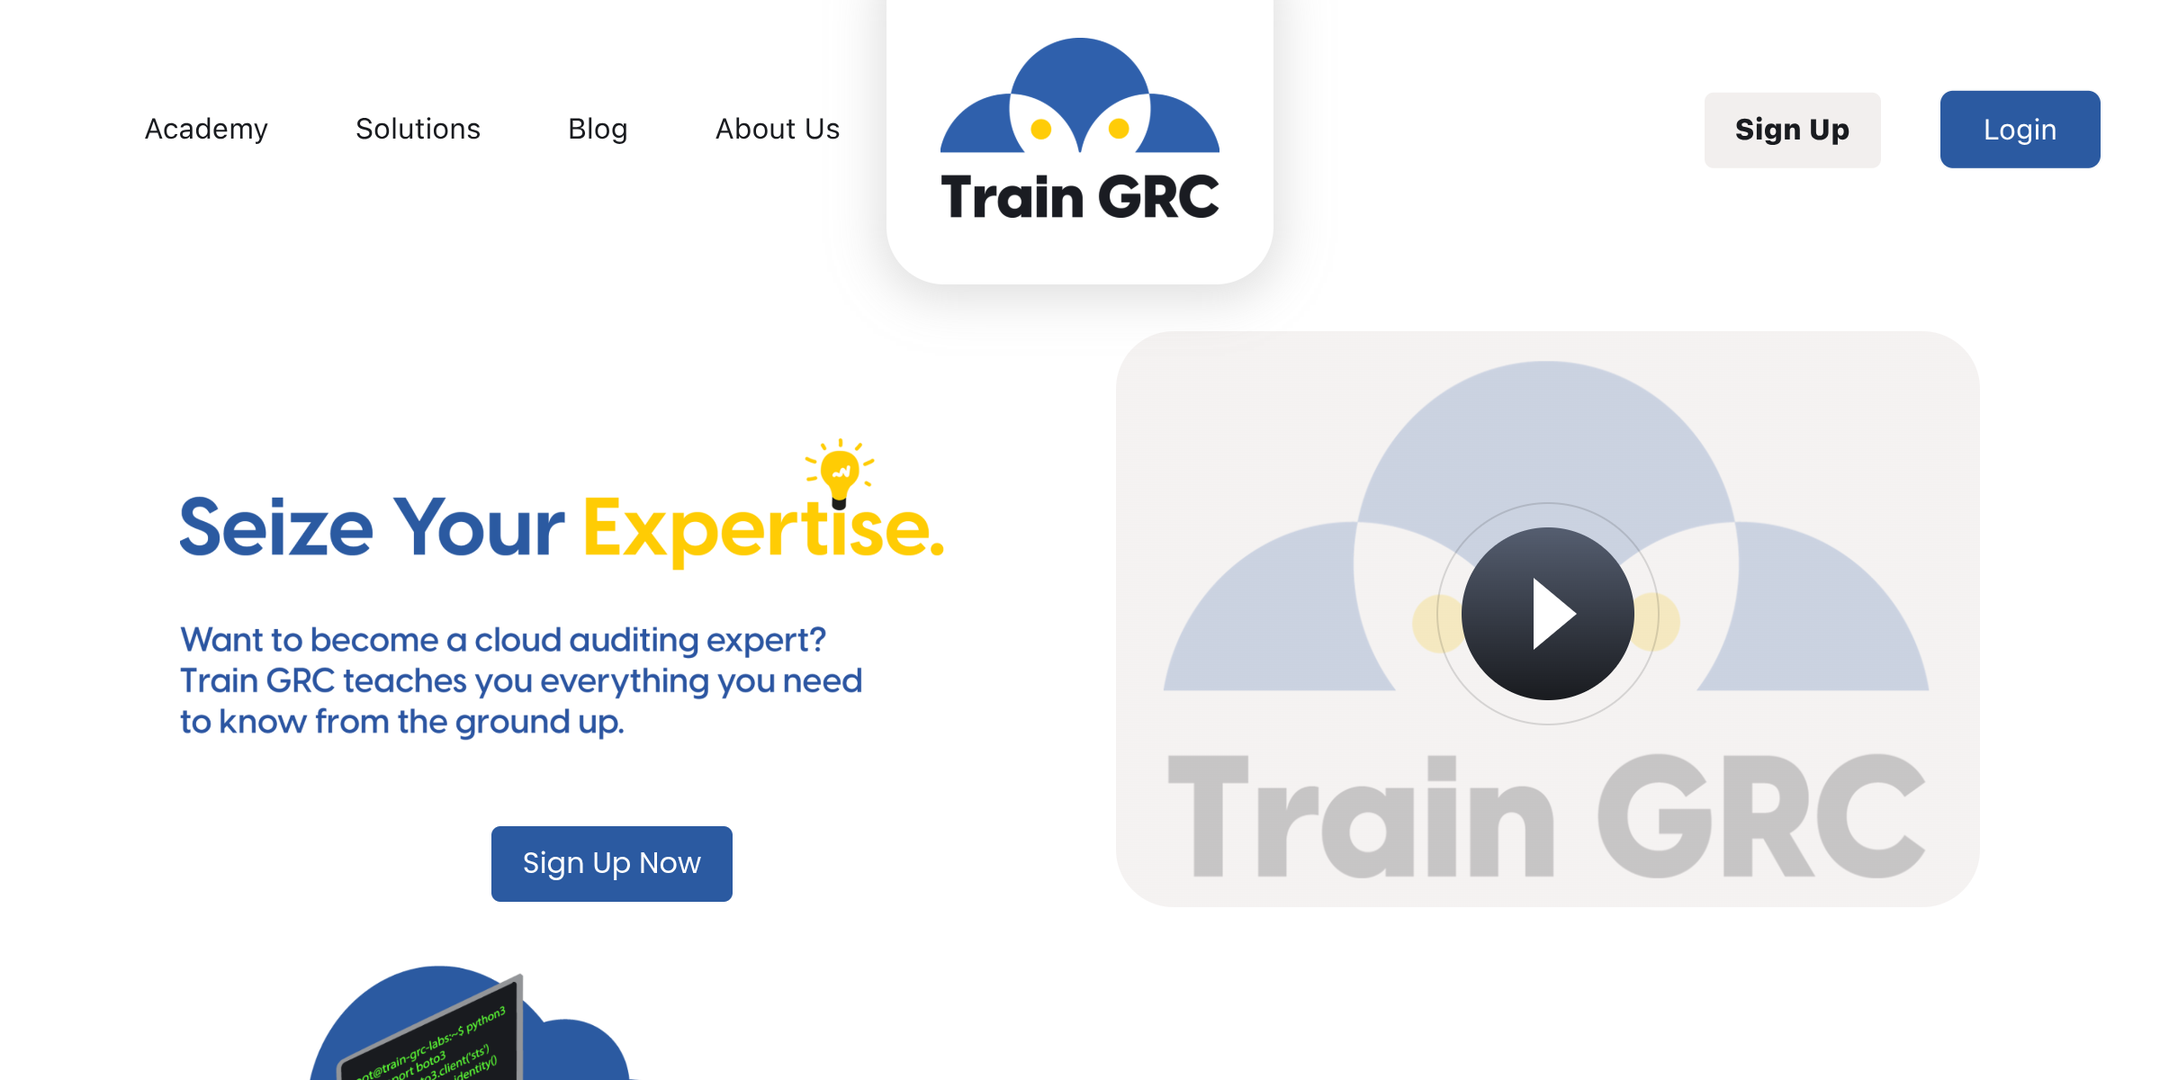
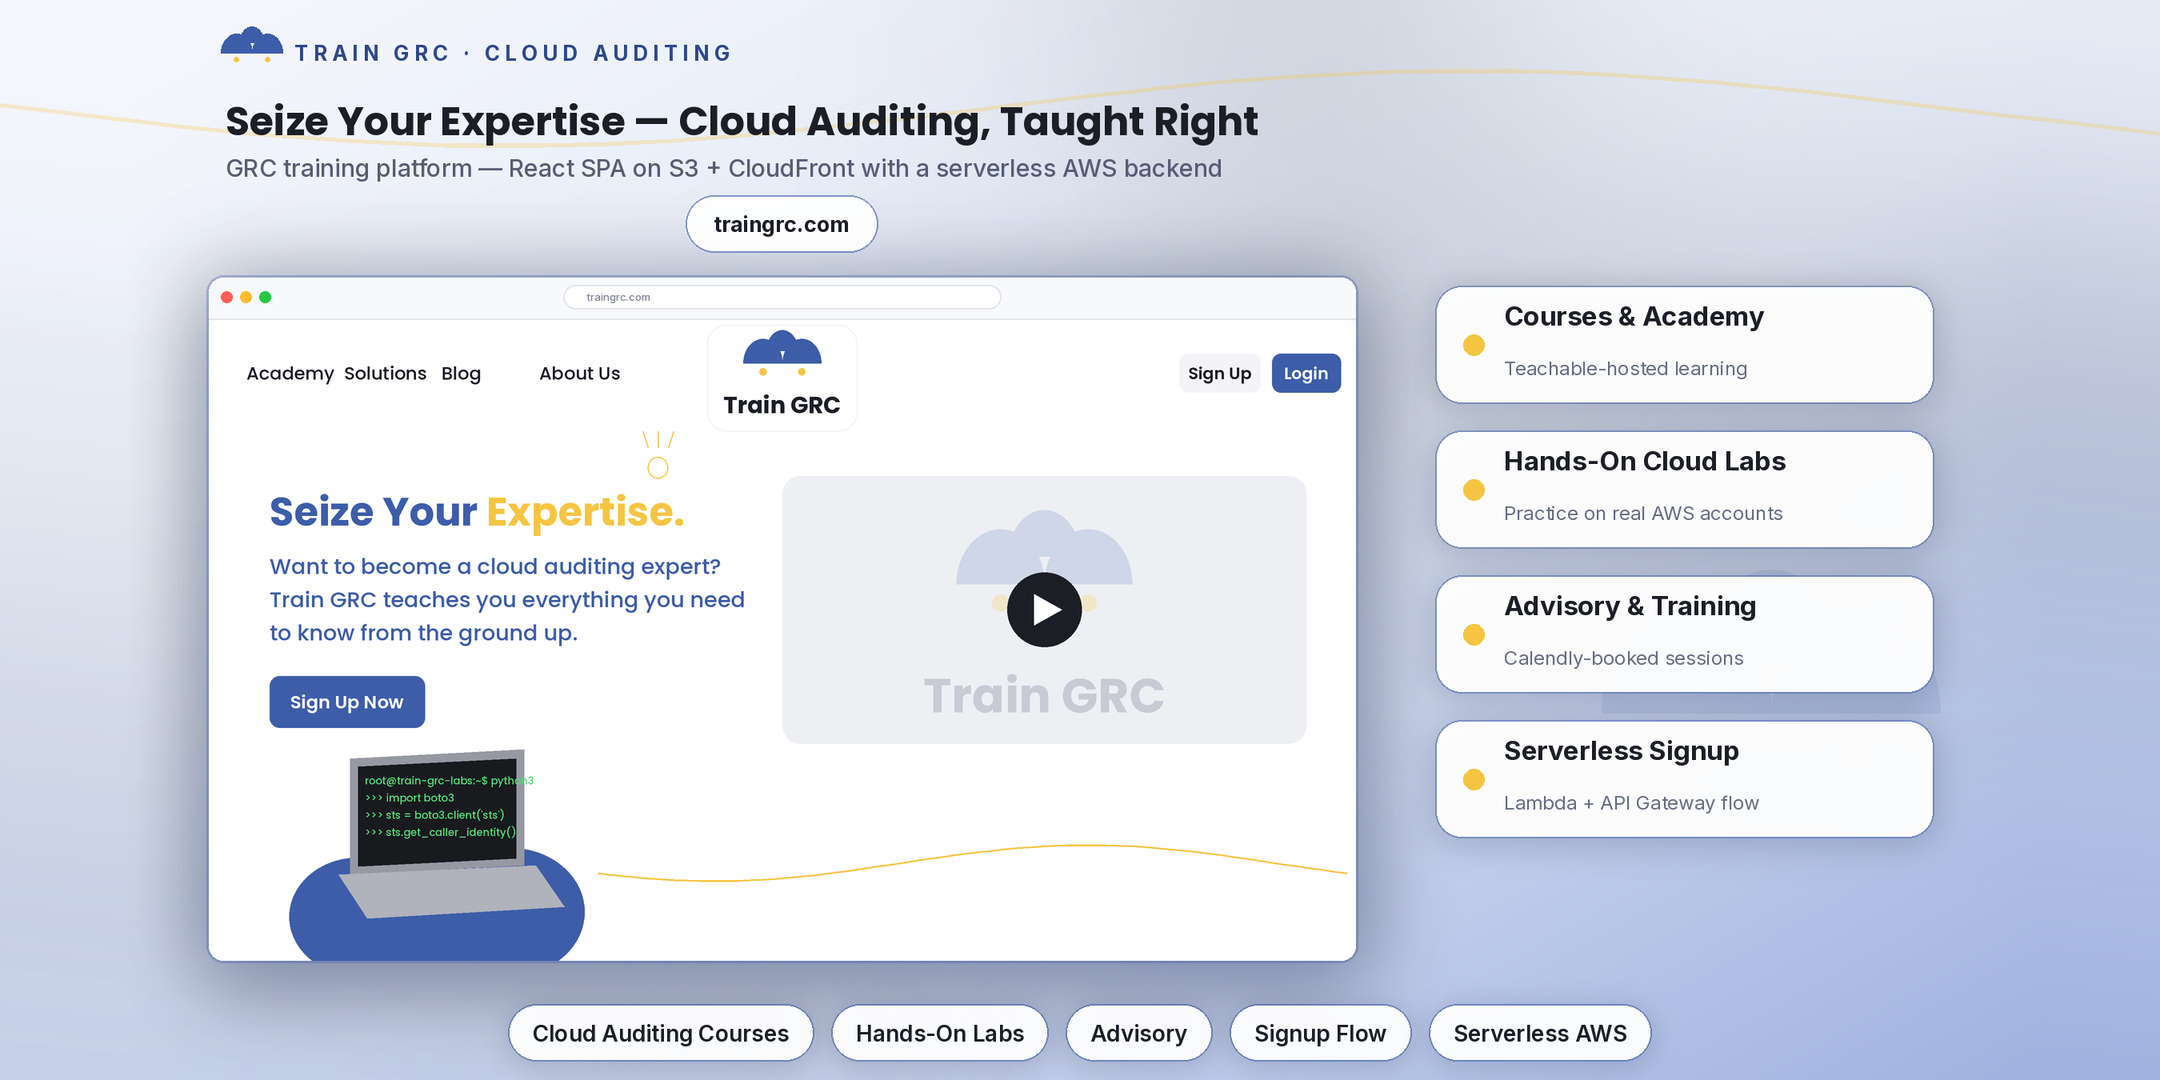
traingrc added

diff --git a/assets/projects/README.md b/assets/projects/README.md
@@ -13,7 +13,7 @@ assets/projects/<slug>/
 public/projects/<slug>.webp           served copy of 2x1.png
 ```
 
-Masters stay PNG. The served copy is WebP: these are gradient-heavy renders, and
+Masters stay PNG. The served copy is WebP: these are gradient-heavy images, and
 PNG stores them about 9x larger than WebP at quality 82 with no visible
 difference (7.0 MB across nine images, against 0.75 MB).
 
@@ -31,19 +31,8 @@ bars.
 - The web card (`aspect-[2/1]`) and the modal header both render at 2:1.
 - The lightbox uses `object-contain`, so it always shows the full image.
 
-When asking an image model for artwork, specify:
-
-```text
-Aspect ratio: 16:9
-Dimensions: 1920 x 1080 px
-Format: PNG
-Do not draw a frame, outline, or border around the canvas.
-Do not pad to the target ratio with black bars. Extend the background instead.
-Keep text and key elements inside a safe margin so nothing clips at the edges.
-```
-
-Ask for 16:9 and normalize here. Models that claim 2:1 tend to pad with flat
-black bars, and every model tested draws a 1px bright line down column 0.
+Source artwork arrives at 16:9 and is normalized here. Keep text and key
+elements inside a safe margin so nothing clips at the edges.
 
 ## Adding a project
 
@@ -67,8 +56,9 @@ Crop when the subject is centered and the edges are expendable. Extend when the
 source is a designed graphic whose edges carry content (a crop would clip it).
 Every project so far has needed extending.
 
-Trim one column from each side first. AI renders carry a 1px bright border, and
-replicating that column outward stretches it into a visible 121px band.
+Trim one column from each side first. Sources often carry a single bright pixel
+column at the border, and replicating it outward stretches it into a visible
+band.
 
 ```python
 from PIL import Image
@@ -93,6 +83,29 @@ both failed: extrapolating the gradient slope clips to saturation on a strong
 gradient, and mirroring the outer strip drags real content into the pad when the
 artwork reaches the edges. The fill is imperceptible because these backgrounds
 shift only a few levels across the 121px pad.
+
+It breaks in one case: a line or shape that crosses the side edge at an angle.
+Replicating the edge column freezes it flat, so it kinks at the seam (Train GRC
+has a thin diagonal wave that does this). Measure the feature's slope near the
+edge, then shear each pad column along it instead of copying it straight:
+
+```python
+rows = np.arange(h)
+def shifted(col, dy):                       # dy > 0 moves content down
+    src = np.clip(rows - dy, 0, h - 1)
+    lo = np.floor(src).astype(int)
+    hi = np.minimum(lo + 1, h - 1)
+    f = (src - lo)[:, None]
+    return col[lo] * (1 - f) + col[hi] * f
+
+SL, SR = 0.1202, 0.1231                     # px per column, measured per image
+left  = np.stack([shifted(a[:, 0, :],  -SL * j) for j in range(pl, 0, -1)], axis=1)
+right = np.stack([shifted(a[:, -1, :], +SR * j) for j in range(1, pr + 1)], axis=1)
+```
+
+Measure the slope by tracking the feature's row across the outer ~80 columns and
+fitting a line (`np.polyfit`). Fit on a row band that contains only the feature:
+a whole-column match locks onto nearby text or logos instead.
 
 Check the result: the seams should match (compare mean luminance of the last pad
 column against the first content column) and no column should be pure black.